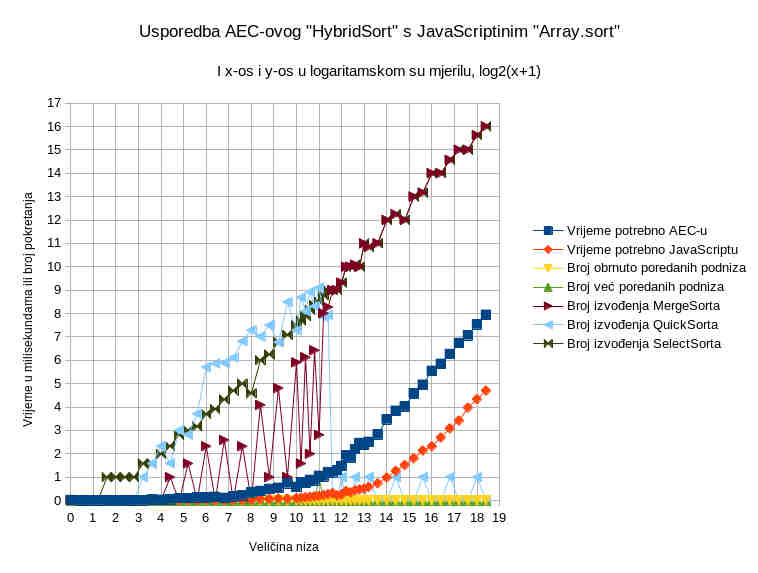
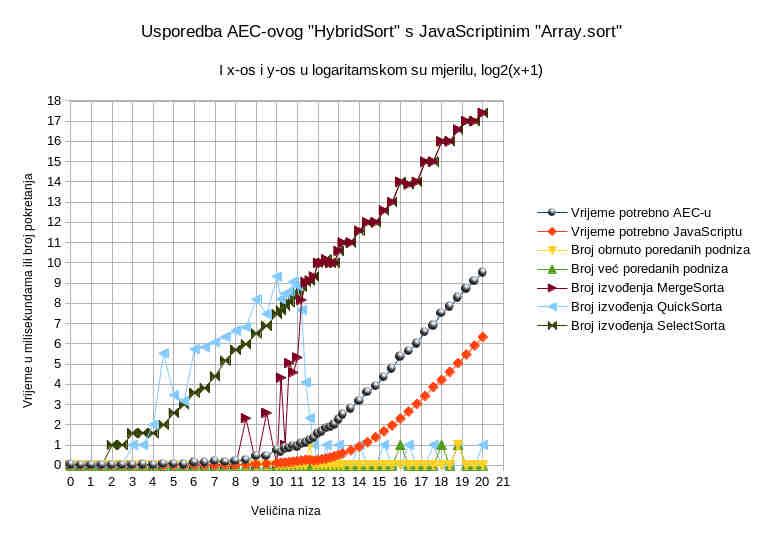
Improved the accuracy of mathematical functions in HybridSort.

Changed region(s): [[0.0303, 0.149, 0.6675, 0.9832], [0.6979, 0.3873, 1.0, 0.6257], [0.1821, 0.0298, 0.8193, 0.149]]

diff --git a/HybridSort/HybridSort.js b/HybridSort/HybridSort.js
@@ -15,9 +15,9 @@ else {
   let velicina_niza, niz,
       memory = new WebAssembly.Memory({
         initial : 1,
-        maximum : 256
+        maximum : 1024
       }) // Ograniči velicinu dijeljene memorije između JavaScripta i AEC-a na
-         // 256 stranice = 16 MB. To je u vrh glave dovoljno, i, ako se
+         // 1024 stranice = 64 MB. To je u vrh glave dovoljno, i, ako se
          // prekorači, znači da je neki bug u programu i da memorija negdje
          // curi.
       ,
@@ -117,12 +117,11 @@ else {
             const pocetna_AEC_funkcija = izvozi_iz_AECa.pocetna_AEC_funkcija;
             console.log(
                 "Logaritam veličine niza\tVrijeme potrebno AEC-u\tVrijeme potrebno JavaScriptu\tBroj obrnuto poredanih podniza\tBroj već poredanih podniza\tBroj izvođenja MergeSorta\tBroj izvođenja QuickSorta\tBroj izvođenja SelectSorta");
-            for (let logaritam_velicine_niza = 0;
-                 logaritam_velicine_niza <= 18.5;
+            for (let logaritam_velicine_niza = 0; logaritam_velicine_niza <= 20;
                  logaritam_velicine_niza +=
                  logaritam_velicine_niza >= 10 && logaritam_velicine_niza < 13
                      ? 1 / 5
-                     : 2 / 5) {
+                     : logaritam_velicine_niza >= 13 ? 2 / 5 : 1 / 2) {
               velicina_niza = Math.pow(2, logaritam_velicine_niza);
               niz = new Int32Array(velicina_niza);
               for (let i = 0; i < velicina_niza; i++)
